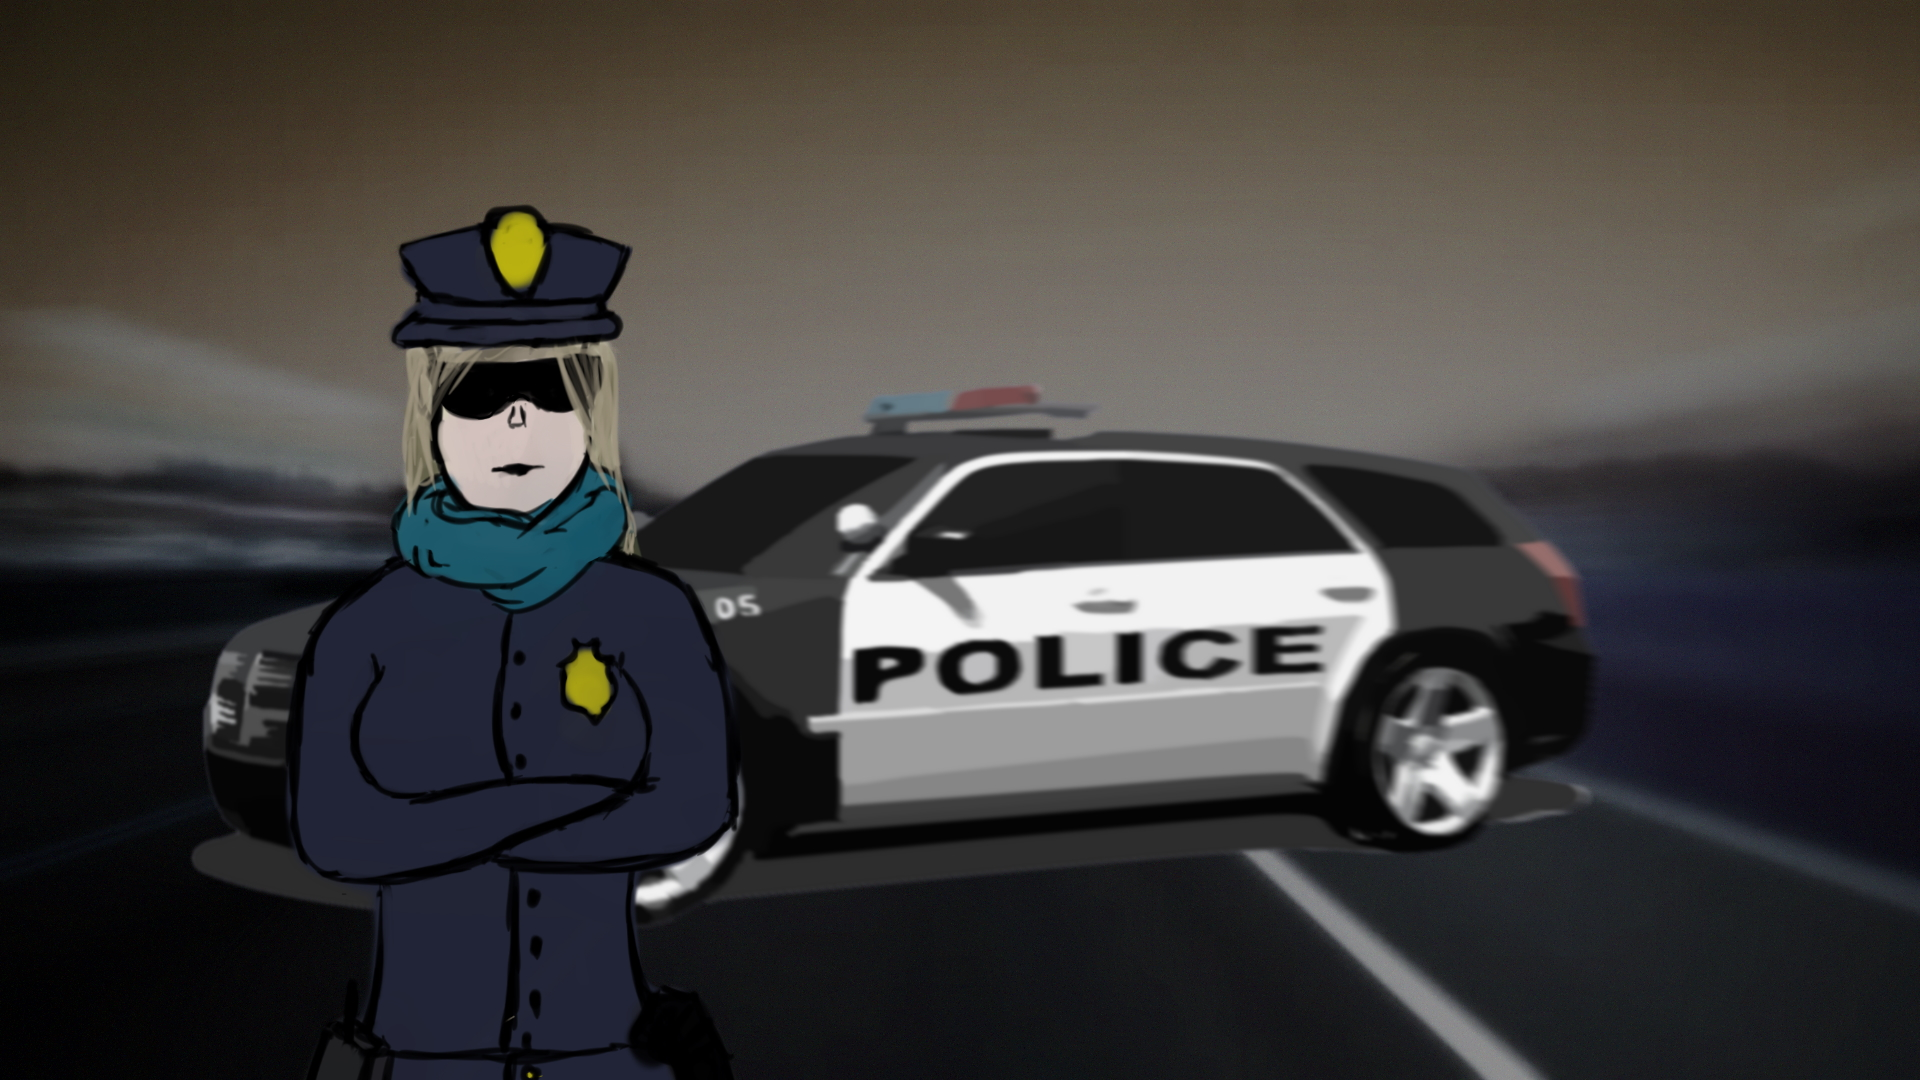
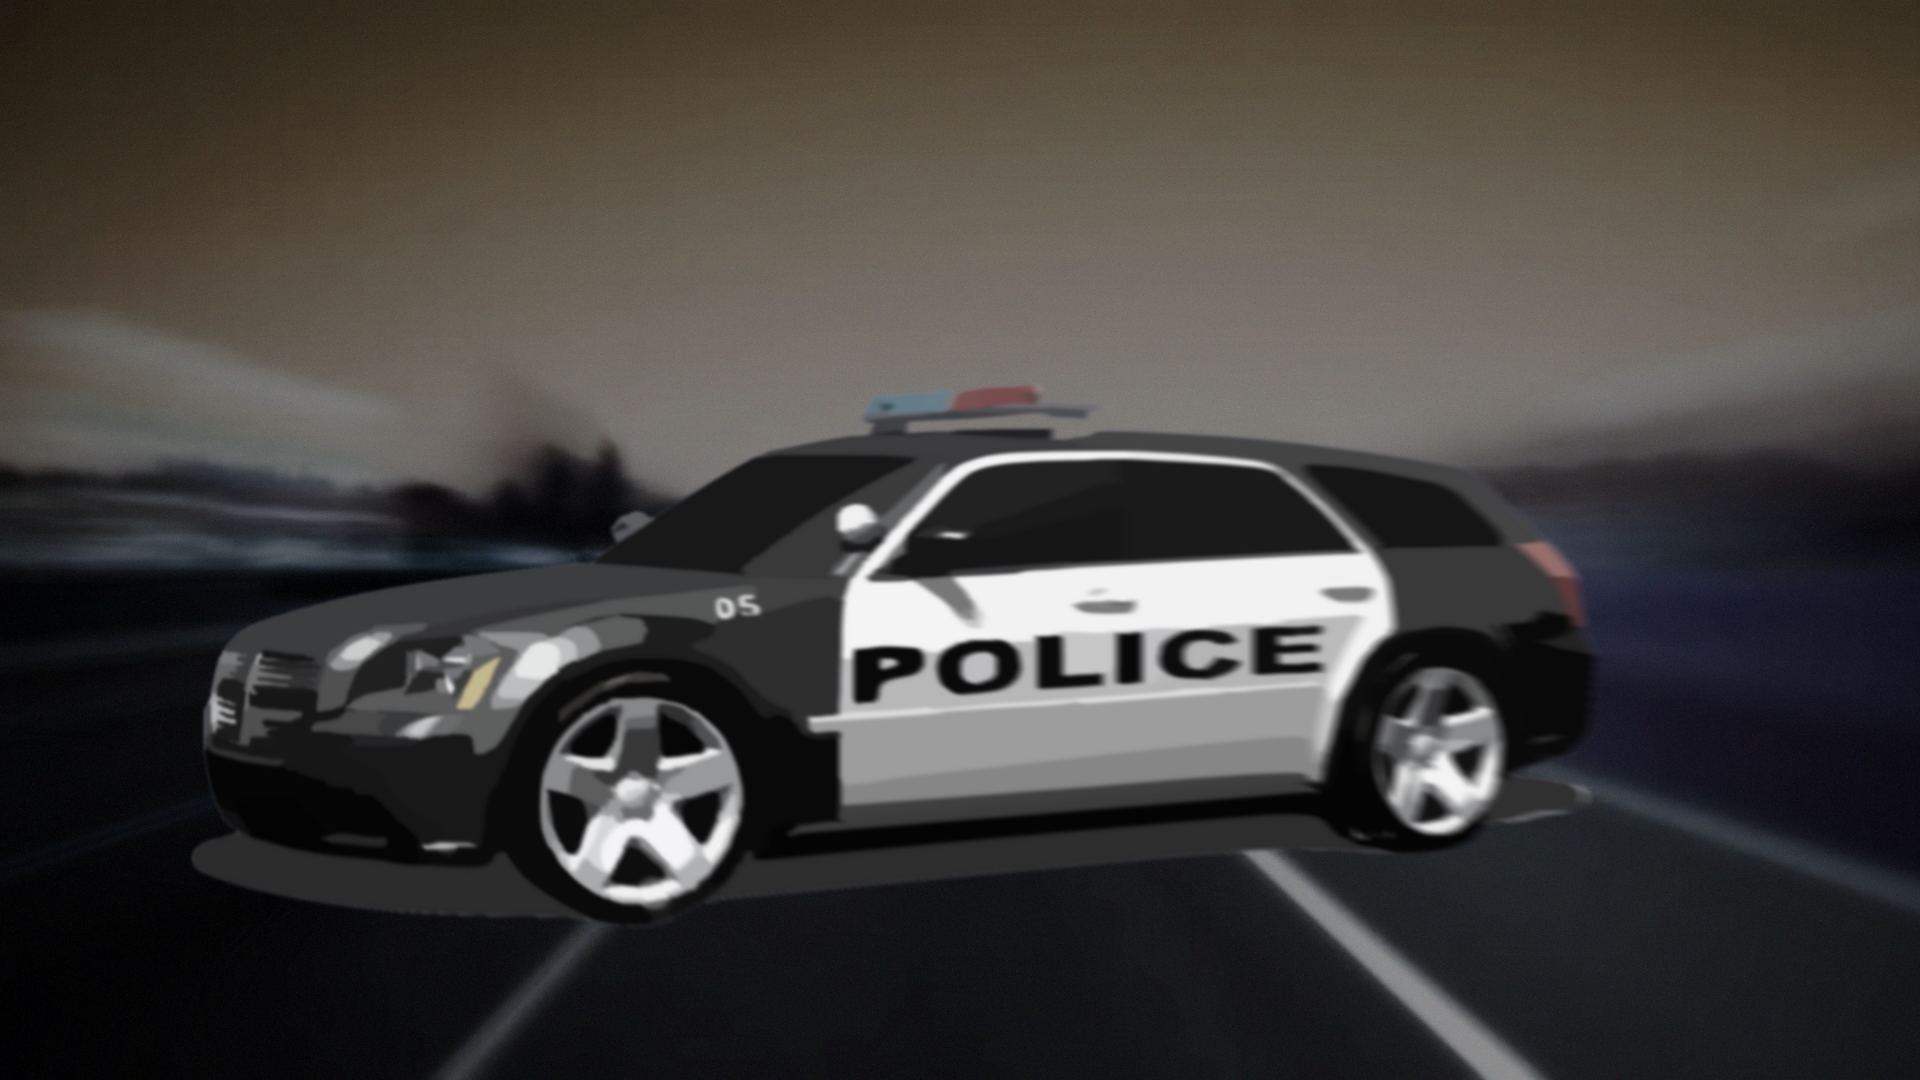
better police lights

Changed region(s): [[0.125, 0.1833, 0.4062, 1.0]]

diff --git a/app/src/gj_driving_home/scenes/mainScene.ts b/app/src/gj_driving_home/scenes/mainScene.ts
@@ -20,6 +20,7 @@ export class MainScene extends BaseScene {
     private redLight: Phaser.GameObjects.Light;
     private blueLight: Phaser.GameObjects.Light;
     private redTimer: number = 0;
+    private copFem: Phaser.GameObjects.Sprite;
     //private blueTimer: number = 100;
 
     constructor() {
@@ -45,6 +46,7 @@ export class MainScene extends BaseScene {
         this.load.audio("radio_static","./assets/music/radio_static.wav");
         this.load.audio("radio00","./assets/music/radio00.mp3");
         this.load.audio("radio01","./assets/music/radio01.mp3");
+        this.load.image("copFem", ["./assets/sprites/cop_fem.png","./assets/b.png"]);
         this.load.audio("radio02","./assets/music/radio02.mp3");
 console.log(this._sceneData.getKey()+"     is the key")
         this._sceneDescription = new SceneLoader(this, this._sceneData.getKey()).loadScene();
@@ -70,6 +72,9 @@ console.log(this._sceneData.getKey()+"     is the key")
         if(this._sceneData.getKey() == "scene1") {
             console.log("Yay! Scene1 Create")
             img.setPipeline('Light2D');
+            this.copFem = this.add.sprite(this.game.renderer.width * 0.5, this.game.renderer.height * 0.75, "copFem");
+            this.copFem.setPipeline('Light2D');
+
             this.redLight  = this.lights.addLight(920, 320, 1500);
             this.blueLight  = this.lights.addLight(890, 320, 1500);
             this.lights.enable().setAmbientColor(0x555555);
